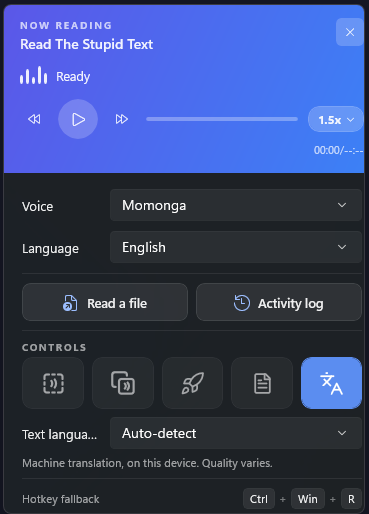
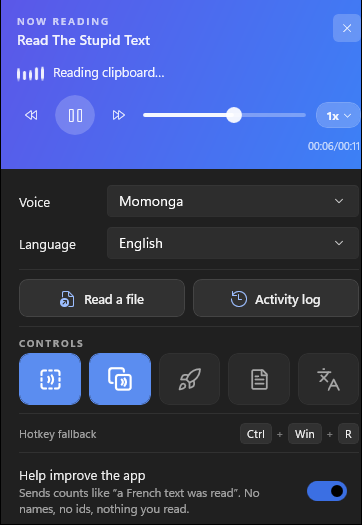
New app screenshots; Android links go to Google Play, not an APK
- Read The Stupid Text: new Windows control-panel shot and an "On your phone"
  gallery (reading, adding text, speed settings).
- Dino Reader: new phone reading shot and a "Shelf, Store, Cast" gallery.
- Android for both apps now links to the Google Play beta; the direct APK
  links are gone.
- Privacy lines now mention the small anonymous counts both apps send.

diff --git a/src/data/products.ts b/src/data/products.ts
@@ -9,6 +9,12 @@
 import rtstShot from '../assets/products/read-the-stupid-text.png';
 import lcmShot from '../assets/products/lets-call-mom.png';
 import dinoShot from '../assets/products/dino-reader.png';
+import dinoStep1 from '../assets/products/dino-reader-step-1.webp';
+import dinoStep2 from '../assets/products/dino-reader-step-2.webp';
+import dinoStep3 from '../assets/products/dino-reader-step-3.webp';
+import rtstStep1 from '../assets/products/read-the-stupid-text-step-1.webp';
+import rtstStep2 from '../assets/products/read-the-stupid-text-step-2.webp';
+import rtstStep3 from '../assets/products/read-the-stupid-text-step-3.webp';
 import bookShot from '../assets/products/print-the-damn-book.webp';
 import bookStep1 from '../assets/products/print-the-damn-book-step-1.webp';
 import bookStep2 from '../assets/products/print-the-damn-book-step-2.webp';
@@ -90,9 +96,9 @@ export interface ReservedSlot {
 }
 
 const RTST_REPO = 'https://github.com/ashkansirous/ReadTheStupidText';
-const RTST_SITE_DOWNLOAD = 'https://readthestupidtext.sirous.uk/download';
 const RTST_PLAY_TESTING = 'https://play.google.com/apps/testing/uk.sirous.readthestupidtext';
 const RTST_TESTFLIGHT = 'https://testflight.apple.com/join/NSeUK2h8';
+const DINO_PLAY_TESTING = 'https://play.google.com/apps/testing/uk.sirous.dinoreader';
 const DINO_TESTFLIGHT = 'https://testflight.apple.com/join/WnF7M53D';
 const BOOK_REPO = 'https://github.com/ashkansirous/print-the-damn-book';
 const BOOK_SITE = 'https://print-the-damn-book.sirous.uk/';
@@ -111,7 +117,7 @@ export const products: Product[] = [
     displayUrl: 'readthestupidtext.sirous.uk',
     screenshot: rtstShot,
     screenshotAlt:
-      'The Read The Stupid Text tray control panel showing the current read, play and skip buttons, 1.5x speed, the Momonga voice and an activity log.',
+      'The Read The Stupid Text tray control panel while it reads copied text: pause and skip buttons, progress, the speed, the Momonga voice and the read controls.',
     screenshotFit: 'float',
     panel: 'rtst',
     audience: 'On the Microsoft Store',
@@ -125,8 +131,8 @@ export const products: Product[] = [
       {
         name: 'Android',
         status: 'testing',
-        note: 'Beta: Google Play for testers, or the APK for anyone.',
-        url: RTST_SITE_DOWNLOAD,
+        note: 'Beta on Google Play, for people on the tester list.',
+        url: RTST_PLAY_TESTING,
       },
       {
         name: 'iPhone and iPad',
@@ -174,9 +180,27 @@ export const products: Product[] = [
       },
       {
         title: 'Private by design',
-        body: 'No account, no telemetry; text, files and scans never leave the device.',
+        body: 'No account; text, files and scans never leave the device. Only small anonymous counts are sent (no names, nothing you read), and you can switch them off.',
       },
     ],
+    galleryTitle: 'On your phone',
+    gallery: [
+      {
+        image: rtstStep1,
+        title: 'Paste, listen, carry on.',
+        body: 'The sentence being read is highlighted, with skip back and forward and a progress bar.',
+      },
+      {
+        image: rtstStep2,
+        title: 'From a photo or a file.',
+        body: 'Point the camera at a page or open a .txt, .pdf or .docx file.',
+      },
+      {
+        image: rtstStep3,
+        title: 'Your speed, your voice.',
+        body: 'Pick a speed from 0.5x to 2x, the voice and the language.',
+      },
+    ].map((step) => ({ ...step, alt: `${step.title} ${step.body}` })),
     stack: [
       '.NET 10',
       'C#',
@@ -193,7 +217,6 @@ export const products: Product[] = [
         url: 'https://apps.microsoft.com/detail/9NGT1BN1H92V',
         primary: true,
       },
-      { label: 'Android beta (APK)', url: RTST_SITE_DOWNLOAD },
       { label: 'Android beta on Google Play (testers)', url: RTST_PLAY_TESTING },
       { label: 'GitHub', url: RTST_REPO },
     ],
@@ -310,20 +333,20 @@ export const products: Product[] = [
     name: 'Dino Reader',
     tagline: 'A storybook reader for kids where every character has their own voice.',
     description:
-      'For ages 3 to 8. Scan a page, open a PDF or type a story, and Dino works out who is speaking and reads each character in their own voice, with a highlight that follows every sentence across the real page. No accounts, no ads, no tracking; stories and photos never leave the device.',
+      'For ages 3 to 8. Scan a page, open a PDF or type a story, and Dino works out who is speaking and reads each character in their own voice, with a highlight that follows every sentence across the real page. No accounts, no ads; stories and photos never leave the device.',
     url: 'https://dinoreader.sirous.uk/',
     displayUrl: 'dinoreader.sirous.uk',
     screenshot: dinoShot,
     screenshotAlt:
-      'Dino Reader in picture mode: an illustrated page of a bunny and a squirrel in a stadium with the spoken sentence highlighted and previous, play and next buttons.',
+      'Dino Reader on a phone: an illustrated page of The Gingerbread Man with a friendly fox, the spoken sentence highlighted, and previous, pause and next buttons.',
     panel: 'dino',
     audience: 'For ages 3 to 8',
     platforms: [
       {
         name: 'Android',
         status: 'testing',
-        note: 'Google Play internal testing, plus a direct download.',
-        url: 'https://dinoreader.sirous.uk/download/android/latest',
+        note: 'Beta on Google Play.',
+        url: DINO_PLAY_TESTING,
       },
       { name: 'iPhone and iPad', status: 'testing', note: 'Beta on TestFlight, open to anyone.', url: DINO_TESTFLIGHT },
       {
@@ -355,9 +378,27 @@ export const products: Product[] = [
       },
       {
         title: 'Offline and private',
-        body: 'Works offline after the voice pack download; nothing is collected.',
+        body: 'Works offline after the voice pack download. Only small anonymous counts are sent (no names, nothing a child types), and a grown-up can switch them off.',
       },
     ],
+    galleryTitle: 'Shelf, Store, Cast',
+    gallery: [
+      {
+        image: dinoStep1,
+        title: 'Their own shelf.',
+        body: 'Every book on the shelf, with its cover, ready to read.',
+      },
+      {
+        image: dinoStep2,
+        title: 'Free illustrated stories.',
+        body: 'Pick by age, download, and read offline.',
+      },
+      {
+        image: dinoStep3,
+        title: 'A voice for every character.',
+        body: 'See who speaks in a book and change any voice.',
+      },
+    ].map((step) => ({ ...step, alt: `${step.title} ${step.body}` })),
     stack: [
       '.NET MAUI',
       'C#',
@@ -367,7 +408,8 @@ export const products: Product[] = [
     ],
     links: [
       { label: 'dinoreader.sirous.uk', url: 'https://dinoreader.sirous.uk/', primary: true },
-      { label: 'Android download', url: 'https://dinoreader.sirous.uk/download/android/latest' },
+      { label: 'Android beta on Google Play', url: DINO_PLAY_TESTING },
+      { label: 'iPhone and iPad beta on TestFlight', url: DINO_TESTFLIGHT },
       { label: 'GitHub', url: RTST_REPO },
     ],
   },
